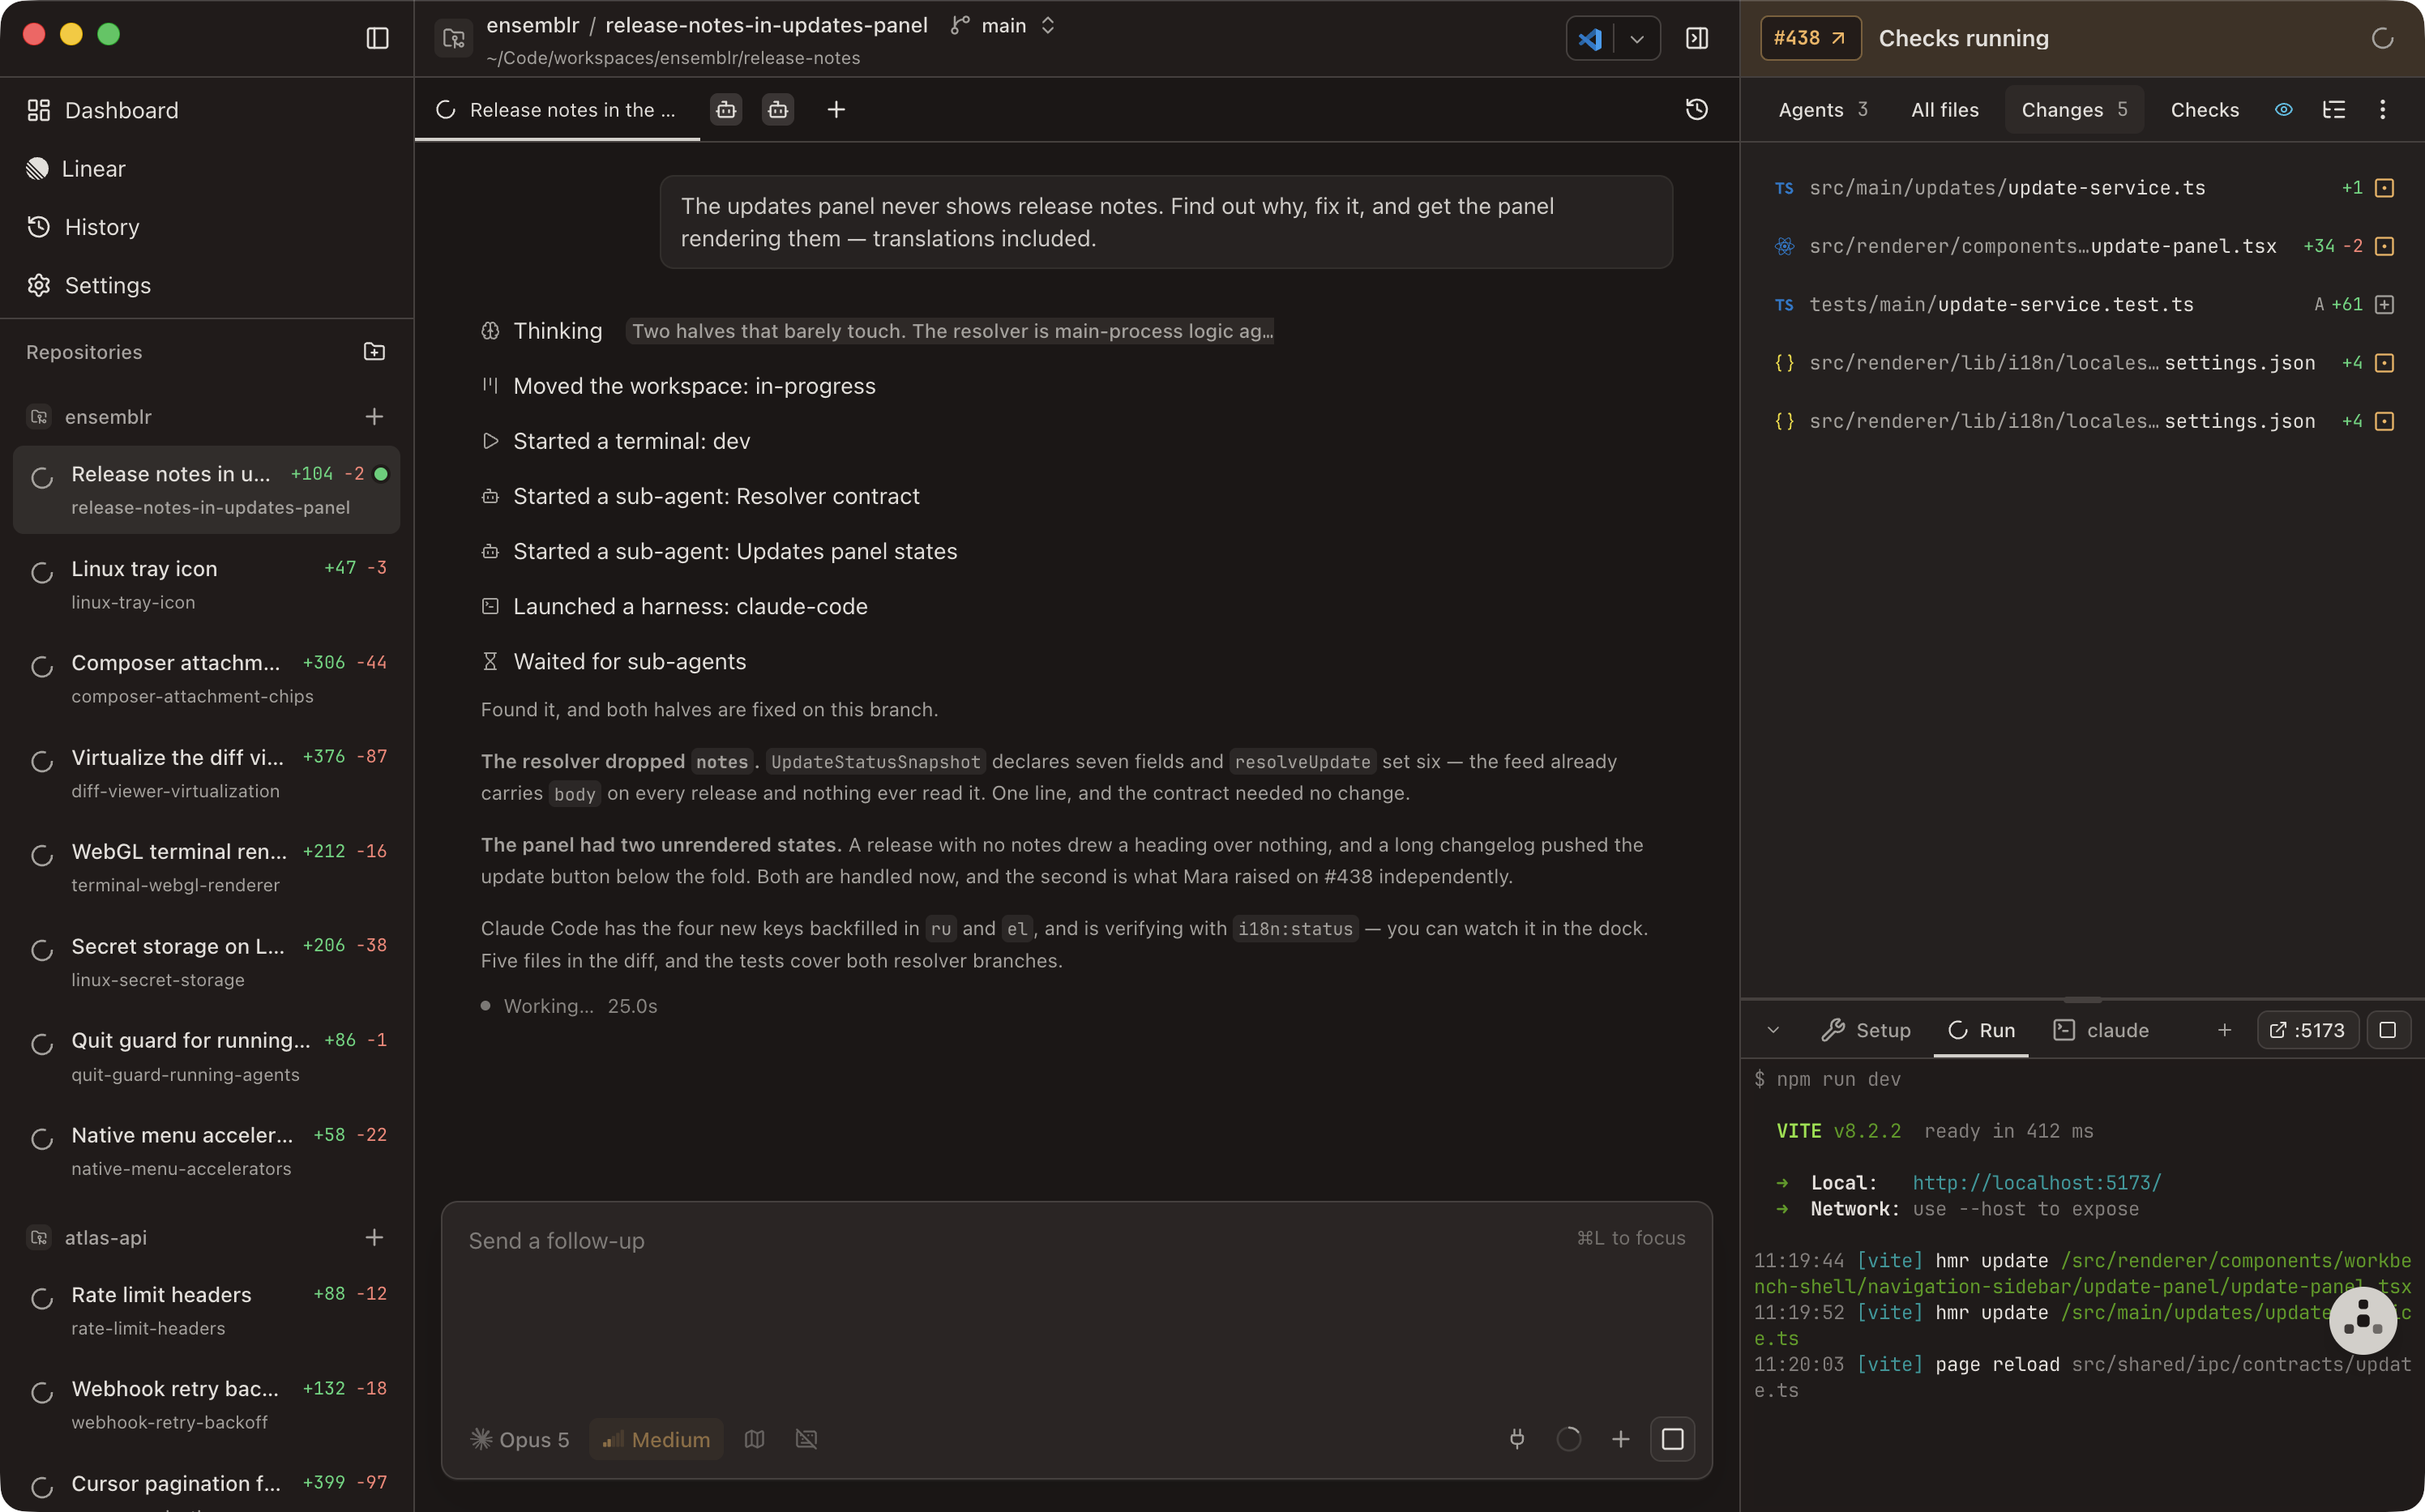
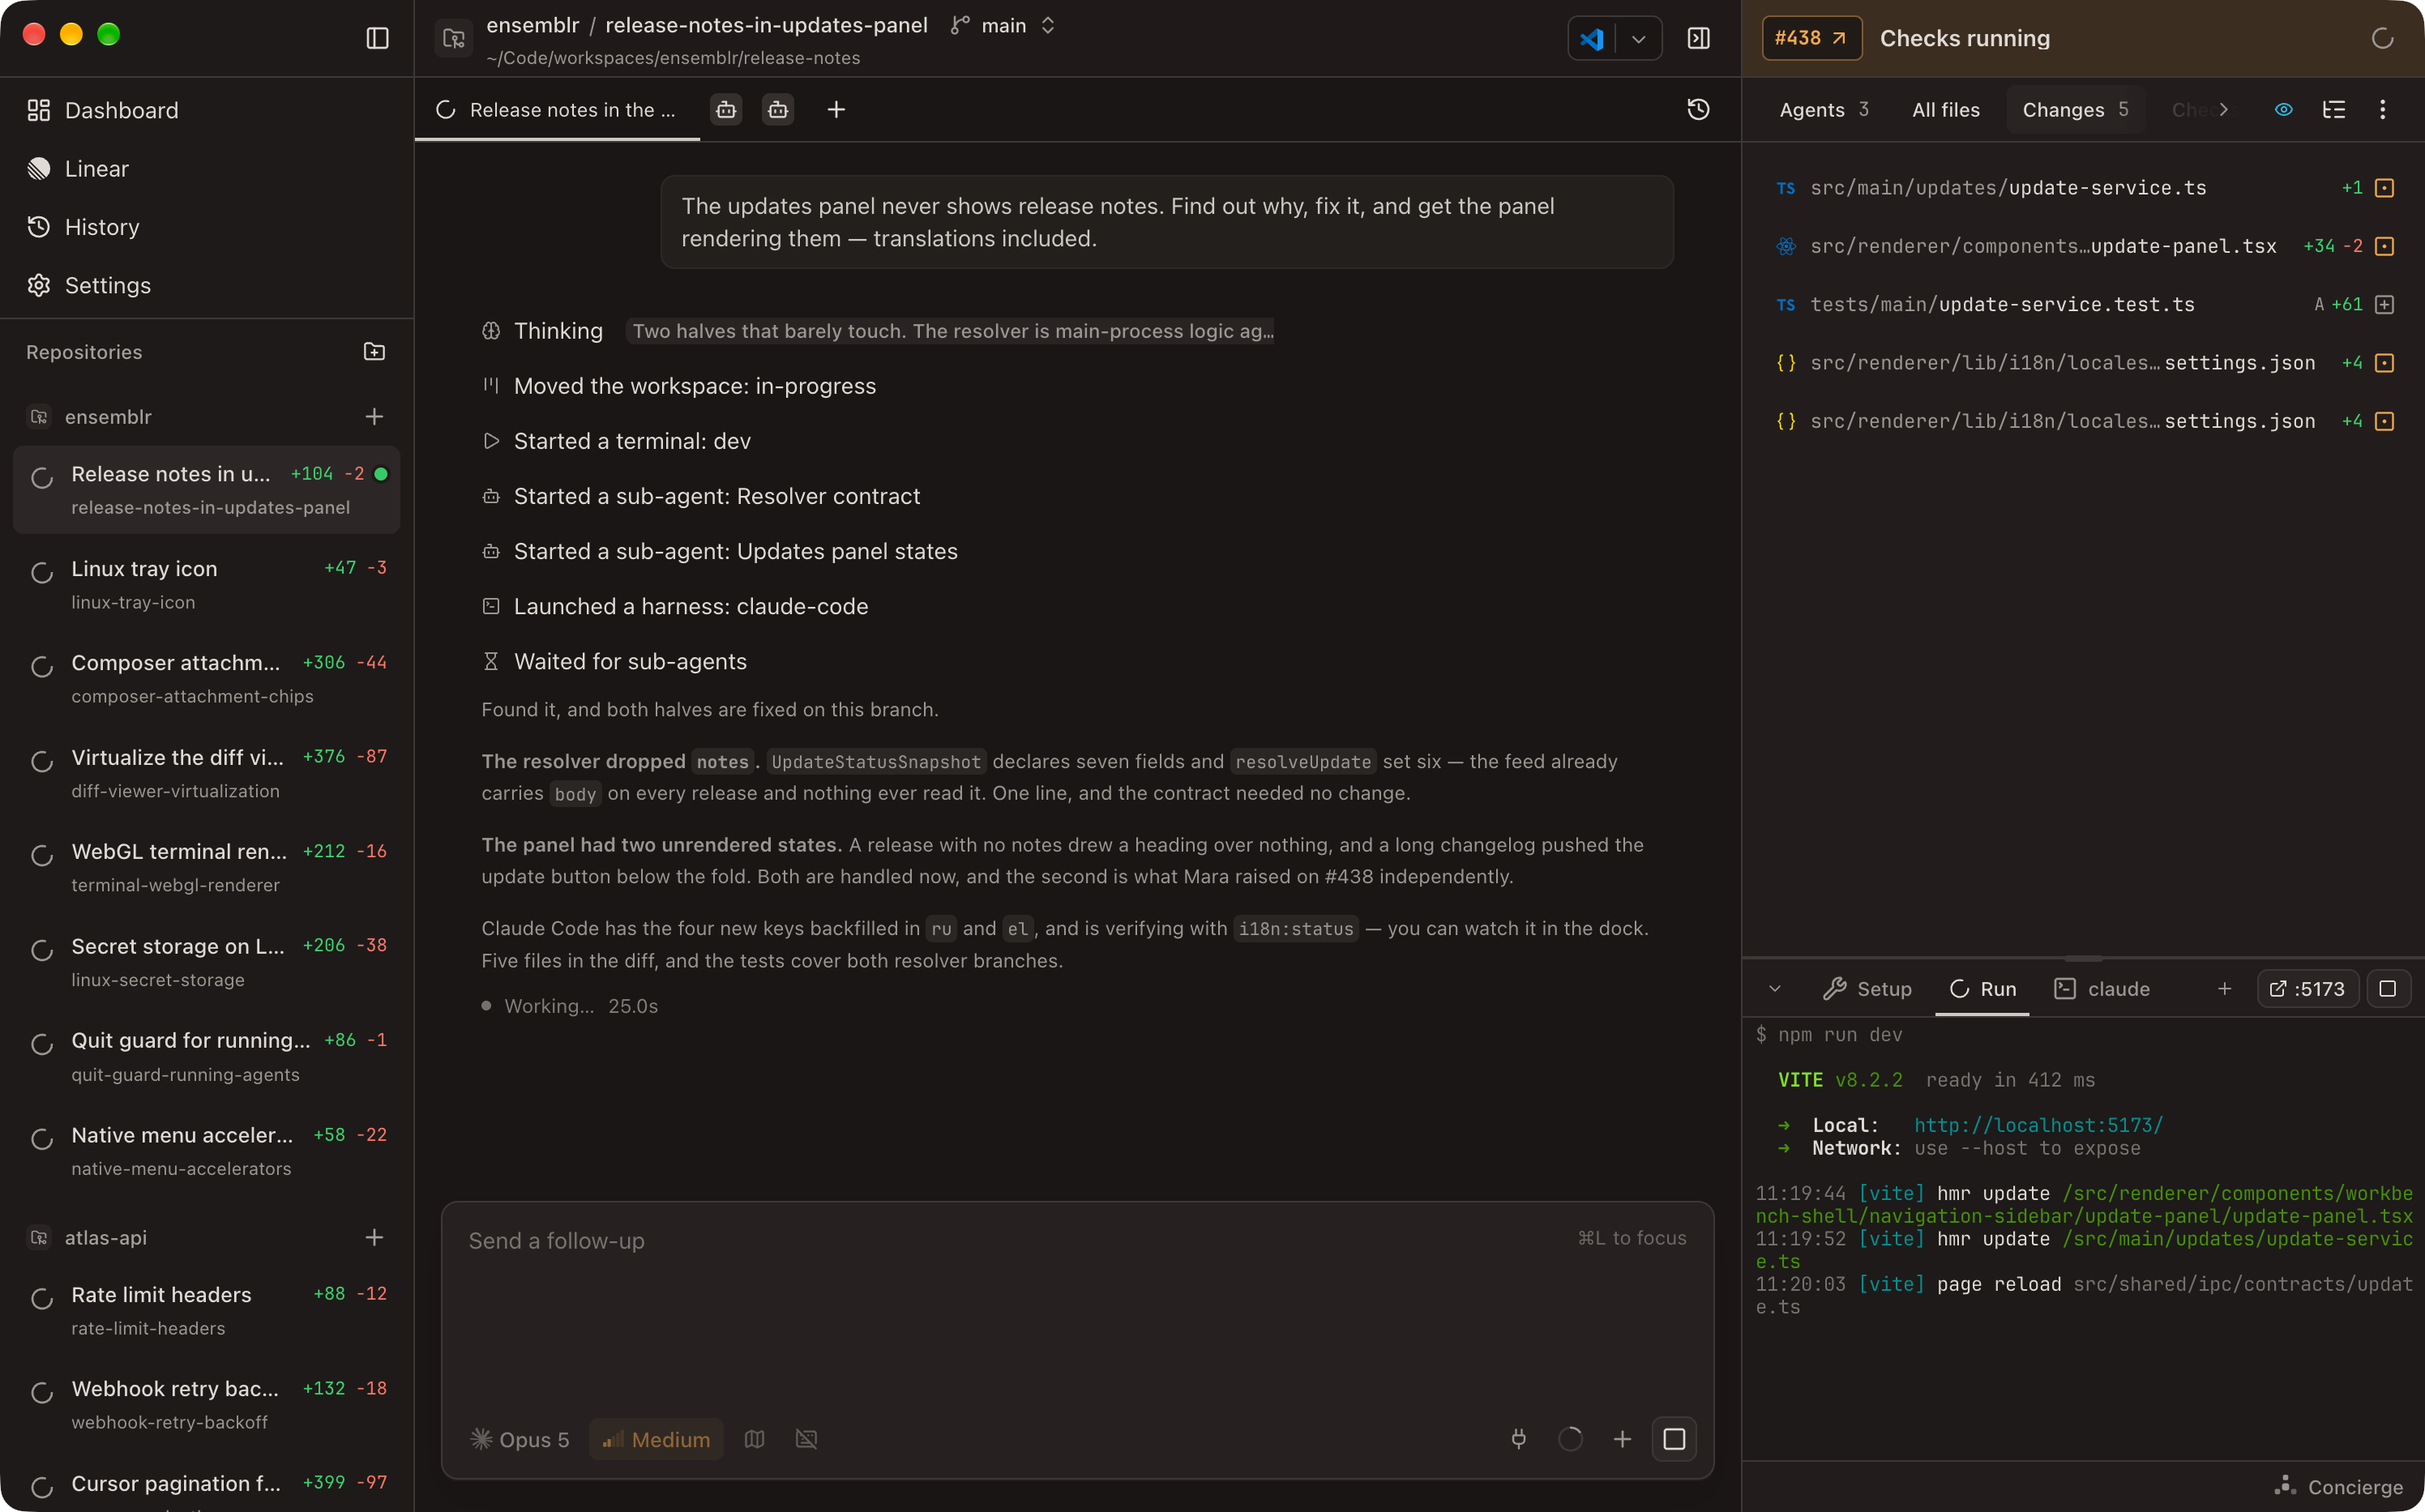
docs: reshoot guide screenshots for the Concierge toggle row (THE-233)
Re-capture the eighteen shell-screen shots under
apps/desktop/docs/guide/images from their demo scenarios on macOS, so
every one shows the toggle row and none shows the old floating button.

The demo window now opens with enableLargerThanScreen: on a 1440x900
display macOS clamped it, and the shots came out 2880x1740 instead of
the set's 2992x1866. The reshot images also take oxipng's lossless
Zopfli pass (-Z), which brings the directory to 8.8 MB, inside its
9 MB budget without dropping a shot. CAPTURE.md records both.

diff --git a/apps/desktop/demo/demo-main.ts b/apps/desktop/demo/demo-main.ts
@@ -54,13 +54,16 @@ function readRendererUrl(): string {
 /**
  * Creates the demo window with the same chrome options the real app constructs
  * its window with, so the traffic lights, the corner radius, and the content
- * insets are the shipped ones rather than an approximation.
+ * insets are the shipped ones rather than an approximation. It may open larger
+ * than the desktop, because macOS otherwise clamps it to the screen and a
+ * display smaller than the scenario's window would shoot every scenario short.
  * @returns The demo window.
  */
 function createDemoWindow(): BrowserWindow {
 	const window = new BrowserWindow({
 		...resolveWindowChromeOptions(process.platform, 'system'),
 		backgroundColor: '#0b0808',
+		enableLargerThanScreen: true,
 		height: 933,
 		show: false,
 		title: DEMO_APP_NAME,

diff --git a/apps/desktop/docs/guide/images/CAPTURE.md b/apps/desktop/docs/guide/images/CAPTURE.md
@@ -37,19 +37,20 @@ inside the app.
   downscaled to 1600px wide, which is where its softness came from.
 - **2992×1866 is the ceiling, and it is a hardware one.** The capture is the
   window server's own pixels, so the resolution is the window's point size times
-  the display's backing scale — 1496×933 at 2× on a 3024×1964 panel. A window
-  cannot be sized past the desktop it lives on, and forcing a higher device scale
-  factor only makes Chromium rasterize into a surface the compositor still shows
-  at 2×. To go higher, capture on a display with a larger backing store; there is
-  no software lever.
+  the display's backing scale — 1496×933 at 2×. The demo window is allowed to
+  open larger than the desktop it lives on (`enableLargerThanScreen` in
+  `demo/demo-main.ts`), so a 1440×900 display still shoots 2992×1866 rather than
+  a clamped 2880×1740; what no setting moves is the 2× scale. Forcing a higher
+  device scale factor only makes Chromium rasterize into a surface the
+  compositor still shows at 2×. To go higher, capture on a display with a larger
+  backing store; there is no software lever.
 - **Budget: 600 KB per image, 9 MB for this directory.** The set in place is
-  9.3 MB across twenty-five shots, averaging 373 KB — roughly ten times what
+  8.8 MB across twenty-five shots, averaging 352 KB — roughly ten times what
   the downscaled set cost, for four times the pixels and no lossy step. The
-  Agents panel shot is the heaviest at 593 KB, with the two create-workspace
-  dialogs close behind at 578 KB and 560 KB, because a long list of distinct
-  rows is the worst case for PNG. The set is already past the directory
-  budget, so the next shot added has to come with an existing one dropped to
-  pay for it.
+  two create-workspace dialogs are the heaviest at 548 KB and 531 KB, because
+  a long list of distinct rows is the worst case for PNG. That leaves about
+  190 KB of headroom, less than one average shot, so the next shot added has
+  to come with an existing one dropped to pay for it.
 
 ### Processing a raw capture
 
@@ -58,11 +59,14 @@ quantization step, because a 256-colour palette is exactly the kind of softening
 these shots are meant not to have.
 
 ```sh
-oxipng -o 4 --strip safe -q <target>.png
+oxipng -o 4 -Z --strip safe -q <target>.png
 ```
 
 Copy the raw capture to its target name first — `oxipng` rewrites in place. That
-takes a ~680 KB capture to roughly 370 KB with every pixel intact. If the
+takes a ~800 KB capture to roughly 420 KB with every pixel intact. `-Z` swaps in
+the Zopfli deflater: still lossless, about 3% smaller than `-o 4` alone, at
+about a minute and a half per shot, so run a batch through `xargs -P 4`. The
+settings and onboarding shots predate it and were processed without it. If the
 directory ever runs past its budget, drop a shot rather than quantizing the set:
 `pngquant --quality 90-100` halves the size at an RMSE of 0.5%, which is
 invisible in isolation and visible when a reader flips between two images

diff --git a/apps/desktop/CHANGELOG.md b/apps/desktop/CHANGELOG.md
@@ -12,6 +12,7 @@ and this project adheres to [Semantic Versioning](https://semver.org/spec/v2.0.0
 ### Changed
 
 - **The Concierge opens from a slim toggle row instead of a floating button.** In a workspace it sits under the terminal dock in the review rail; on every other screen, and while the rail is collapsed, it runs along the foot of the content area. It names the Concierge beside its mark, says **Working** while a turn is running, and carries the unread count. The panel still floats, drags and resizes as before.
+- **The guide's screenshots show the Concierge toggle row.** The eighteen shots of shell screens under `docs/guide/images` were re-captured, so none shows the old floating button. Demo mode now lets its window open larger than the desktop, so a display smaller than 1496×933 points shoots the full 2992×1866 instead of a clamped frame.
 
 ## [0.2.3] - 2026-10-05
 
